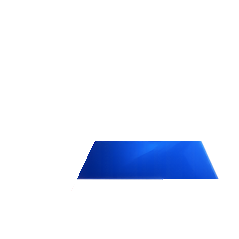
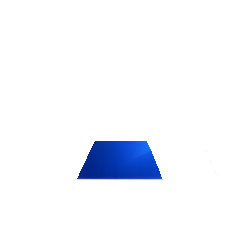
Adjusted intro animation

Changed region(s): [[0.6151, 0.5858, 0.9079, 0.7615]]

diff --git a/public/styles.css b/public/styles.css
@@ -11213,59 +11213,59 @@ body.home-page.animate-ready.home-loaded .hero-animate-logo {
 }
 
 body.home-page.animate-ready.home-loaded .hero-banner.is-intro .hero-brand-icon {
-  animation: landingHeroBrandIcon 8600ms cubic-bezier(0.16, 1, 0.3, 1) 400ms both;
+  animation: landingHeroBrandIcon 1640ms cubic-bezier(0.16, 1, 0.3, 1) 260ms both;
 }
 
 body.home-page.animate-ready.home-loaded .hero-banner.is-intro .hero-brand-icon::before {
-  animation: landingHeroIconAura 8600ms ease 400ms both;
+  animation: landingHeroIconAura 1640ms ease 260ms both;
 }
 
 body.home-page.animate-ready.home-loaded .hero-banner.is-intro .hero-brand-icon::after {
-  animation: landingHeroReflection 8600ms ease 400ms both;
+  animation: landingHeroReflection 1640ms ease 260ms both;
 }
 
 body.home-page.animate-ready.home-loaded .hero-banner.is-intro .hero-brand-logo--frame1 {
-  animation: landingLogoRevealUp 1100ms cubic-bezier(0.22, 1, 0.36, 1) 800ms both;
+  animation: landingLogoRevealUp 220ms cubic-bezier(0.22, 1, 0.36, 1) 300ms both;
 }
 
 body.home-page.animate-ready.home-loaded .hero-banner.is-intro .hero-brand-logo--frame2 {
-  animation: landingLogoRevealUp 1050ms cubic-bezier(0.22, 1, 0.36, 1) 1750ms both;
+  animation: landingLogoRevealUp 210ms cubic-bezier(0.22, 1, 0.36, 1) 505ms both;
 }
 
 body.home-page.animate-ready.home-loaded .hero-banner.is-intro .hero-brand-logo--frame3 {
-  animation: landingLogoRevealUp 1100ms cubic-bezier(0.22, 1, 0.36, 1) 2650ms both;
+  animation: landingLogoRevealUp 220ms cubic-bezier(0.22, 1, 0.36, 1) 700ms both;
 }
 
 body.home-page.animate-ready.home-loaded .hero-banner.is-intro .hero-brand-logo-blue--diagonal {
-  animation: landingLogoRevealDown 2500ms cubic-bezier(0.22, 1, 0.36, 1) 3900ms both;
+  animation: landingLogoRevealDown 500ms cubic-bezier(0.22, 1, 0.36, 1) 900ms both;
 }
 
 body.home-page.animate-ready.home-loaded .hero-banner.is-intro .hero-brand-logo-blue--crossbar {
-  animation: landingLogoRevealRight 2300ms cubic-bezier(0.22, 1, 0.36, 1) 4100ms both;
+  animation: landingLogoRevealRight 460ms cubic-bezier(0.22, 1, 0.36, 1) 940ms both;
 }
 
 body.home-page.animate-ready.home-loaded .hero-banner.is-intro .hero-brand-logo-blue--leg {
-  animation: landingLogoRevealLeg 2100ms cubic-bezier(0.22, 1, 0.36, 1) 6500ms both;
+  animation: landingLogoRevealLeg 410ms cubic-bezier(0.22, 1, 0.36, 1) 1410ms both;
 }
 
 body.home-page.animate-ready.home-loaded .hero-banner.is-intro .hero-brand-logo--complete {
-  animation: landingLogoCompleteLock 600ms cubic-bezier(0.22, 1, 0.36, 1) 8500ms both;
+  animation: landingLogoCompleteLock 150ms cubic-bezier(0.22, 1, 0.36, 1) 1800ms both;
 }
 
 body.home-page.animate-ready.home-loaded .hero-banner.is-intro .hero-brand-wordmark {
-  animation: landingHeroWordmarkReveal 1200ms cubic-bezier(0.18, 0.86, 0.24, 1) 9300ms both;
+  animation: landingHeroWordmarkReveal 980ms cubic-bezier(0.18, 0.86, 0.24, 1) 1980ms both;
 }
 
 body.home-page.animate-ready.home-loaded .hero-banner.is-intro .hero-brand-divider {
-  animation: landingHeroDividerFade 1000ms ease 10200ms both;
+  animation: landingHeroDividerFade 760ms ease 2420ms both;
 }
 
 body.home-page.animate-ready.home-loaded .hero-banner.is-intro .hero-brand-divider::before {
-  animation: landingHeroDividerSweep 1000ms cubic-bezier(0.18, 0.86, 0.24, 1) 10200ms both;
+  animation: landingHeroDividerSweep 780ms cubic-bezier(0.18, 0.86, 0.24, 1) 2420ms both;
 }
 
 body.home-page.animate-ready.home-loaded .hero-banner.is-intro .hero-brand-subtitle {
-  animation: landingHeroSubtitleReveal 1000ms cubic-bezier(0.18, 0.86, 0.24, 1) 10800ms both;
+  animation: landingHeroSubtitleReveal 700ms cubic-bezier(0.18, 0.86, 0.24, 1) 2560ms both;
 }
 
 body.home-page.animate-ready:not(.home-loaded) .hero-animate-headline {
@@ -11291,9 +11291,9 @@ body.home-page.animate-ready.home-loaded .hero-value__title {
   filter: blur(0);
   transform: translateY(0);
   transition:
-    opacity 700ms ease 10500ms,
-    transform 700ms cubic-bezier(0.18, 0.86, 0.24, 1) 10500ms,
-    filter 700ms ease 10500ms;
+    opacity 700ms ease 2180ms,
+    transform 700ms cubic-bezier(0.18, 0.86, 0.24, 1) 2180ms,
+    filter 700ms ease 2180ms;
 }
 
 body.home-page.animate-ready.home-loaded .hero-value__subtitle {
@@ -11301,9 +11301,9 @@ body.home-page.animate-ready.home-loaded .hero-value__subtitle {
   filter: blur(0);
   transform: translateY(0);
   transition:
-    opacity 700ms ease 11200ms,
-    transform 700ms cubic-bezier(0.18, 0.86, 0.24, 1) 11200ms,
-    filter 700ms ease 11200ms;
+    opacity 700ms ease 2440ms,
+    transform 700ms cubic-bezier(0.18, 0.86, 0.24, 1) 2440ms,
+    filter 700ms ease 2440ms;
 }
 
 body.home-page.animate-ready:not(.home-loaded) .hero-animate-cta [data-cta-btn] {
@@ -11318,11 +11318,11 @@ body.home-page.animate-ready.home-loaded .hero-animate-cta [data-cta-btn] {
 }
 
 body.home-page.animate-ready.home-loaded .hero-animate-cta [data-cta-btn='primary'] {
-  transition-delay: 12000ms;
+  transition-delay: 2780ms;
 }
 
 body.home-page.animate-ready.home-loaded .hero-animate-cta [data-cta-btn='secondary'] {
-  transition-delay: 12200ms;
+  transition-delay: 2900ms;
 }
 
 body.home-page.animate-ready:not(.home-loaded) .home-hero-trust {
@@ -11333,7 +11333,7 @@ body.home-page.animate-ready:not(.home-loaded) .home-hero-trust {
 body.home-page.animate-ready.home-loaded .home-hero-trust {
   opacity: 1;
   transform: translateY(0);
-  transition: opacity 560ms ease 12600ms, transform 560ms cubic-bezier(0.2, 0.8, 0.2, 1) 12600ms;
+  transition: opacity 560ms ease 3120ms, transform 560ms cubic-bezier(0.2, 0.8, 0.2, 1) 3120ms;
 }
 
 body.home-page.animate-ready:not(.home-loaded) .home-hero-platforms {
@@ -11357,19 +11357,19 @@ body.home-page.animate-ready.home-loaded .home-hero-platforms {
 body.home-page.animate-ready.home-loaded .home-hero-platforms__title {
   opacity: 1;
   transform: translateY(0);
-  transition: opacity 520ms ease 13000ms, transform 520ms cubic-bezier(0.2, 0.8, 0.2, 1) 13000ms;
+  transition: opacity 520ms ease 3100ms, transform 520ms cubic-bezier(0.2, 0.8, 0.2, 1) 3100ms;
 }
 
 body.home-page.animate-ready.home-loaded .home-hero-platforms__marquee {
   opacity: 1;
   transform: translateY(0);
-  transition: opacity 580ms ease 13300ms, transform 580ms cubic-bezier(0.2, 0.8, 0.2, 1) 13300ms;
+  transition: opacity 580ms ease 3300ms, transform 580ms cubic-bezier(0.2, 0.8, 0.2, 1) 3300ms;
 }
 
 body.home-page.animate-ready.home-loaded .home-hero-platforms__note {
   opacity: 1;
   transform: translateY(0);
-  transition: opacity 520ms ease 13700ms, transform 520ms cubic-bezier(0.2, 0.8, 0.2, 1) 13700ms;
+  transition: opacity 520ms ease 3580ms, transform 520ms cubic-bezier(0.2, 0.8, 0.2, 1) 3580ms;
 }
 
 @keyframes home-cap-sweep {

diff --git a/web/styles.css b/web/styles.css
@@ -11213,59 +11213,59 @@ body.home-page.animate-ready.home-loaded .hero-animate-logo {
 }
 
 body.home-page.animate-ready.home-loaded .hero-banner.is-intro .hero-brand-icon {
-  animation: landingHeroBrandIcon 8600ms cubic-bezier(0.16, 1, 0.3, 1) 400ms both;
+  animation: landingHeroBrandIcon 1640ms cubic-bezier(0.16, 1, 0.3, 1) 260ms both;
 }
 
 body.home-page.animate-ready.home-loaded .hero-banner.is-intro .hero-brand-icon::before {
-  animation: landingHeroIconAura 8600ms ease 400ms both;
+  animation: landingHeroIconAura 1640ms ease 260ms both;
 }
 
 body.home-page.animate-ready.home-loaded .hero-banner.is-intro .hero-brand-icon::after {
-  animation: landingHeroReflection 8600ms ease 400ms both;
+  animation: landingHeroReflection 1640ms ease 260ms both;
 }
 
 body.home-page.animate-ready.home-loaded .hero-banner.is-intro .hero-brand-logo--frame1 {
-  animation: landingLogoRevealUp 1100ms cubic-bezier(0.22, 1, 0.36, 1) 800ms both;
+  animation: landingLogoRevealUp 220ms cubic-bezier(0.22, 1, 0.36, 1) 300ms both;
 }
 
 body.home-page.animate-ready.home-loaded .hero-banner.is-intro .hero-brand-logo--frame2 {
-  animation: landingLogoRevealUp 1050ms cubic-bezier(0.22, 1, 0.36, 1) 1750ms both;
+  animation: landingLogoRevealUp 210ms cubic-bezier(0.22, 1, 0.36, 1) 505ms both;
 }
 
 body.home-page.animate-ready.home-loaded .hero-banner.is-intro .hero-brand-logo--frame3 {
-  animation: landingLogoRevealUp 1100ms cubic-bezier(0.22, 1, 0.36, 1) 2650ms both;
+  animation: landingLogoRevealUp 220ms cubic-bezier(0.22, 1, 0.36, 1) 700ms both;
 }
 
 body.home-page.animate-ready.home-loaded .hero-banner.is-intro .hero-brand-logo-blue--diagonal {
-  animation: landingLogoRevealDown 2500ms cubic-bezier(0.22, 1, 0.36, 1) 3900ms both;
+  animation: landingLogoRevealDown 500ms cubic-bezier(0.22, 1, 0.36, 1) 900ms both;
 }
 
 body.home-page.animate-ready.home-loaded .hero-banner.is-intro .hero-brand-logo-blue--crossbar {
-  animation: landingLogoRevealRight 2300ms cubic-bezier(0.22, 1, 0.36, 1) 4100ms both;
+  animation: landingLogoRevealRight 460ms cubic-bezier(0.22, 1, 0.36, 1) 940ms both;
 }
 
 body.home-page.animate-ready.home-loaded .hero-banner.is-intro .hero-brand-logo-blue--leg {
-  animation: landingLogoRevealLeg 2100ms cubic-bezier(0.22, 1, 0.36, 1) 6500ms both;
+  animation: landingLogoRevealLeg 410ms cubic-bezier(0.22, 1, 0.36, 1) 1410ms both;
 }
 
 body.home-page.animate-ready.home-loaded .hero-banner.is-intro .hero-brand-logo--complete {
-  animation: landingLogoCompleteLock 600ms cubic-bezier(0.22, 1, 0.36, 1) 8500ms both;
+  animation: landingLogoCompleteLock 150ms cubic-bezier(0.22, 1, 0.36, 1) 1800ms both;
 }
 
 body.home-page.animate-ready.home-loaded .hero-banner.is-intro .hero-brand-wordmark {
-  animation: landingHeroWordmarkReveal 1200ms cubic-bezier(0.18, 0.86, 0.24, 1) 9300ms both;
+  animation: landingHeroWordmarkReveal 980ms cubic-bezier(0.18, 0.86, 0.24, 1) 1980ms both;
 }
 
 body.home-page.animate-ready.home-loaded .hero-banner.is-intro .hero-brand-divider {
-  animation: landingHeroDividerFade 1000ms ease 10200ms both;
+  animation: landingHeroDividerFade 760ms ease 2420ms both;
 }
 
 body.home-page.animate-ready.home-loaded .hero-banner.is-intro .hero-brand-divider::before {
-  animation: landingHeroDividerSweep 1000ms cubic-bezier(0.18, 0.86, 0.24, 1) 10200ms both;
+  animation: landingHeroDividerSweep 780ms cubic-bezier(0.18, 0.86, 0.24, 1) 2420ms both;
 }
 
 body.home-page.animate-ready.home-loaded .hero-banner.is-intro .hero-brand-subtitle {
-  animation: landingHeroSubtitleReveal 1000ms cubic-bezier(0.18, 0.86, 0.24, 1) 10800ms both;
+  animation: landingHeroSubtitleReveal 700ms cubic-bezier(0.18, 0.86, 0.24, 1) 2560ms both;
 }
 
 body.home-page.animate-ready:not(.home-loaded) .hero-animate-headline {
@@ -11291,9 +11291,9 @@ body.home-page.animate-ready.home-loaded .hero-value__title {
   filter: blur(0);
   transform: translateY(0);
   transition:
-    opacity 700ms ease 10500ms,
-    transform 700ms cubic-bezier(0.18, 0.86, 0.24, 1) 10500ms,
-    filter 700ms ease 10500ms;
+    opacity 700ms ease 2180ms,
+    transform 700ms cubic-bezier(0.18, 0.86, 0.24, 1) 2180ms,
+    filter 700ms ease 2180ms;
 }
 
 body.home-page.animate-ready.home-loaded .hero-value__subtitle {
@@ -11301,9 +11301,9 @@ body.home-page.animate-ready.home-loaded .hero-value__subtitle {
   filter: blur(0);
   transform: translateY(0);
   transition:
-    opacity 700ms ease 11200ms,
-    transform 700ms cubic-bezier(0.18, 0.86, 0.24, 1) 11200ms,
-    filter 700ms ease 11200ms;
+    opacity 700ms ease 2440ms,
+    transform 700ms cubic-bezier(0.18, 0.86, 0.24, 1) 2440ms,
+    filter 700ms ease 2440ms;
 }
 
 body.home-page.animate-ready:not(.home-loaded) .hero-animate-cta [data-cta-btn] {
@@ -11318,11 +11318,11 @@ body.home-page.animate-ready.home-loaded .hero-animate-cta [data-cta-btn] {
 }
 
 body.home-page.animate-ready.home-loaded .hero-animate-cta [data-cta-btn='primary'] {
-  transition-delay: 12000ms;
+  transition-delay: 2780ms;
 }
 
 body.home-page.animate-ready.home-loaded .hero-animate-cta [data-cta-btn='secondary'] {
-  transition-delay: 12200ms;
+  transition-delay: 2900ms;
 }
 
 body.home-page.animate-ready:not(.home-loaded) .home-hero-trust {
@@ -11333,7 +11333,7 @@ body.home-page.animate-ready:not(.home-loaded) .home-hero-trust {
 body.home-page.animate-ready.home-loaded .home-hero-trust {
   opacity: 1;
   transform: translateY(0);
-  transition: opacity 560ms ease 12600ms, transform 560ms cubic-bezier(0.2, 0.8, 0.2, 1) 12600ms;
+  transition: opacity 560ms ease 3120ms, transform 560ms cubic-bezier(0.2, 0.8, 0.2, 1) 3120ms;
 }
 
 body.home-page.animate-ready:not(.home-loaded) .home-hero-platforms {
@@ -11357,19 +11357,19 @@ body.home-page.animate-ready.home-loaded .home-hero-platforms {
 body.home-page.animate-ready.home-loaded .home-hero-platforms__title {
   opacity: 1;
   transform: translateY(0);
-  transition: opacity 520ms ease 13000ms, transform 520ms cubic-bezier(0.2, 0.8, 0.2, 1) 13000ms;
+  transition: opacity 520ms ease 3100ms, transform 520ms cubic-bezier(0.2, 0.8, 0.2, 1) 3100ms;
 }
 
 body.home-page.animate-ready.home-loaded .home-hero-platforms__marquee {
   opacity: 1;
   transform: translateY(0);
-  transition: opacity 580ms ease 13300ms, transform 580ms cubic-bezier(0.2, 0.8, 0.2, 1) 13300ms;
+  transition: opacity 580ms ease 3300ms, transform 580ms cubic-bezier(0.2, 0.8, 0.2, 1) 3300ms;
 }
 
 body.home-page.animate-ready.home-loaded .home-hero-platforms__note {
   opacity: 1;
   transform: translateY(0);
-  transition: opacity 520ms ease 13700ms, transform 520ms cubic-bezier(0.2, 0.8, 0.2, 1) 13700ms;
+  transition: opacity 520ms ease 3580ms, transform 520ms cubic-bezier(0.2, 0.8, 0.2, 1) 3580ms;
 }
 
 @keyframes home-cap-sweep {

diff --git a/public/index.html b/public/index.html
@@ -17,7 +17,7 @@
     <link rel="preload" as="image" href="/applictus-animation-frame6.png" />
     <link rel="preload" as="image" href="/Applictus_logo.png" />
     <script src="/landing-intro-preload.js?v=1"></script>
-    <link rel="stylesheet" href="/styles.css?v=71" />
+    <link rel="stylesheet" href="/styles.css?v=72" />
     <noscript>
       <style>
         body.home-page .home-nav {

diff --git a/web/home.html b/web/home.html
@@ -17,7 +17,7 @@
     <link rel="preload" as="image" href="/applictus-animation-frame6.png" />
     <link rel="preload" as="image" href="/Applictus_logo.png" />
     <script src="/landing-intro-preload.js?v=1"></script>
-    <link rel="stylesheet" href="/styles.css?v=71" />
+    <link rel="stylesheet" href="/styles.css?v=72" />
     <noscript>
       <style>
         body.home-page .home-nav {